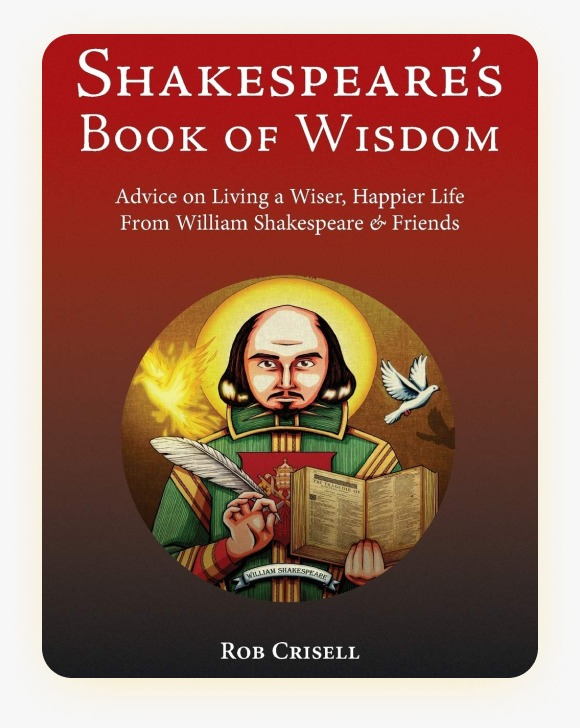
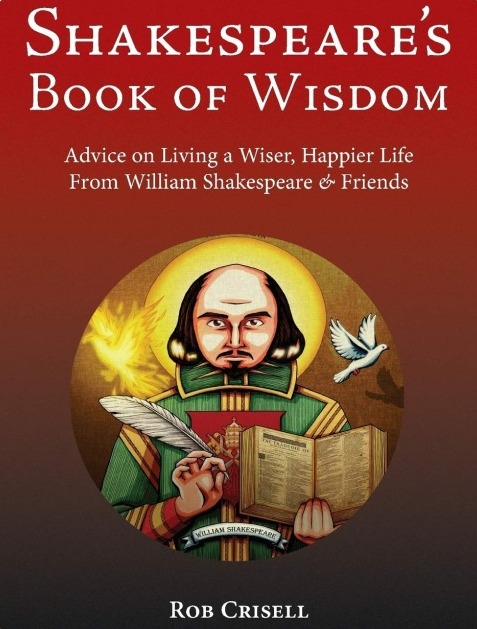
trending books retouch

diff --git a/src/components/BookCard/BookCard.scss b/src/components/BookCard/BookCard.scss
@@ -1,28 +1,27 @@
 .card {
-  background-color: yellow;
   padding: 0.5rem;
   text-align: center;
   .card-body {
-    background-color: rgb(178, 240, 248);
-    padding: 1rem;
+    background-color: #FFFFFF;
+    border-radius: 2rem;
+    padding: 3rem;
     display: block;
 
     img {
-      padding: 2rem;
       background-color: rgb(139, 218, 136);
-      width: 24.8rem;
-      height: 33.2rem;
+      width: 20.8rem;
+      height: 30.2rem;
+      border-radius: 2rem;
+      margin-top: -7rem;
     }
 
     .card-title {
-      padding: 1rem;
-      background-color: pink;
+      padding: 3rem 0 0rem 0;
       font-size: 1.6rem;
+      font-weight: 400;
     }
 
     .rating {
-      padding: 1rem;
-      background-color: aquamarine;
       font-size: 4rem;
     }
   }

diff --git a/src/components/BookCarousel/BookCarousel.scss b/src/components/BookCarousel/BookCarousel.scss
@@ -2,7 +2,7 @@
   .category-title {
     font-weight: 100;
     font-size: 7rem;
-    padding: 4rem;
+    padding: 4rem 4rem 1rem;
   }
 
   .category-description {
@@ -11,6 +11,7 @@
     width: 40%;
     margin: auto;
     color: #575757;
+    margin-bottom: 7rem;
   }
   .books {
     display: flex;

diff --git a/src/pages/Landing.scss b/src/pages/Landing.scss
@@ -1,7 +1,8 @@
 .container {
-    .book-carousel {
-        padding: 3rem;
-        background-color: rgb(220, 219, 231);
-        text-align: center;
-    }
+  .book-carousel {
+    padding: 3rem;
+    background-color: #e5e5e5;
+
+    text-align: center;
+  }
 }
